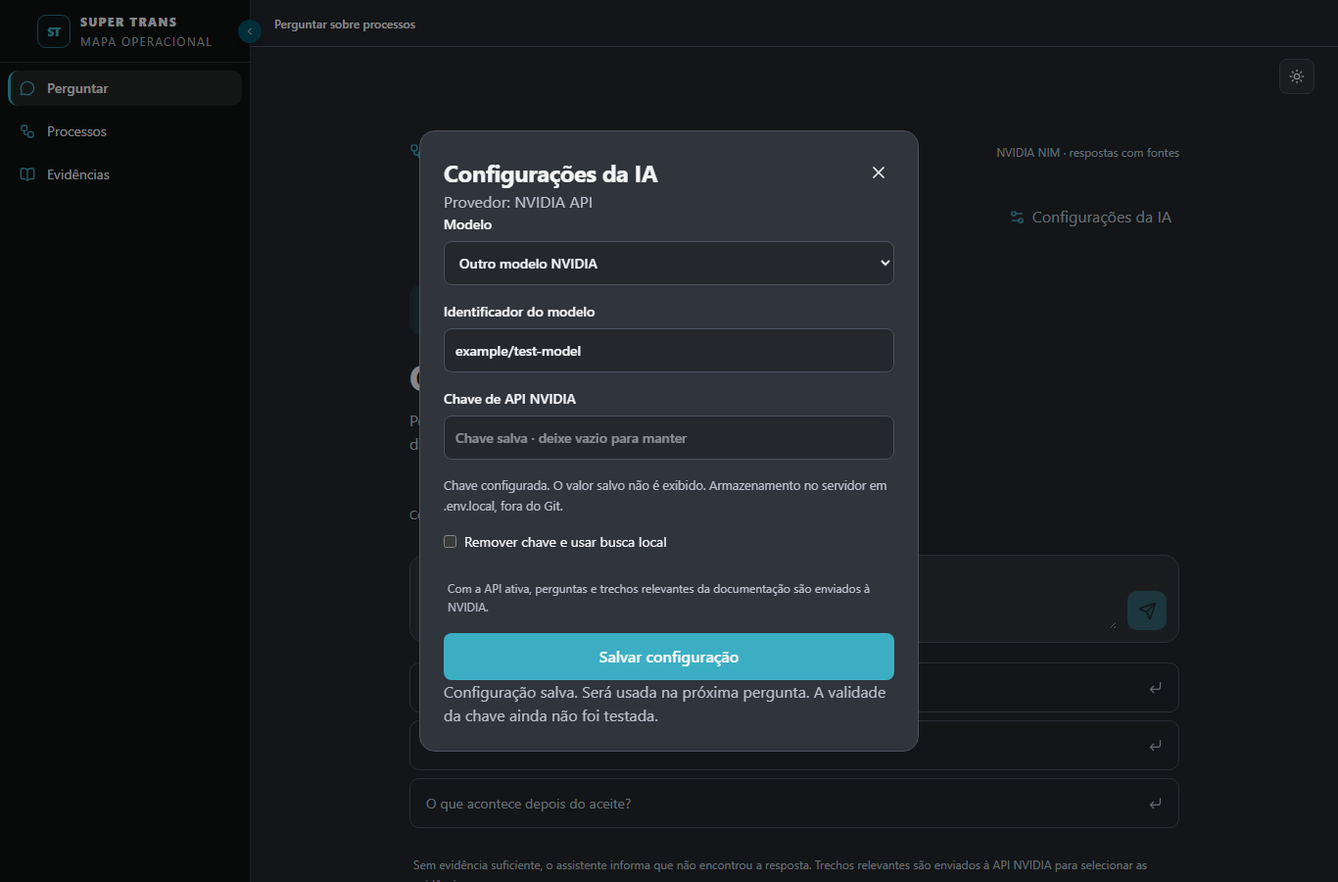
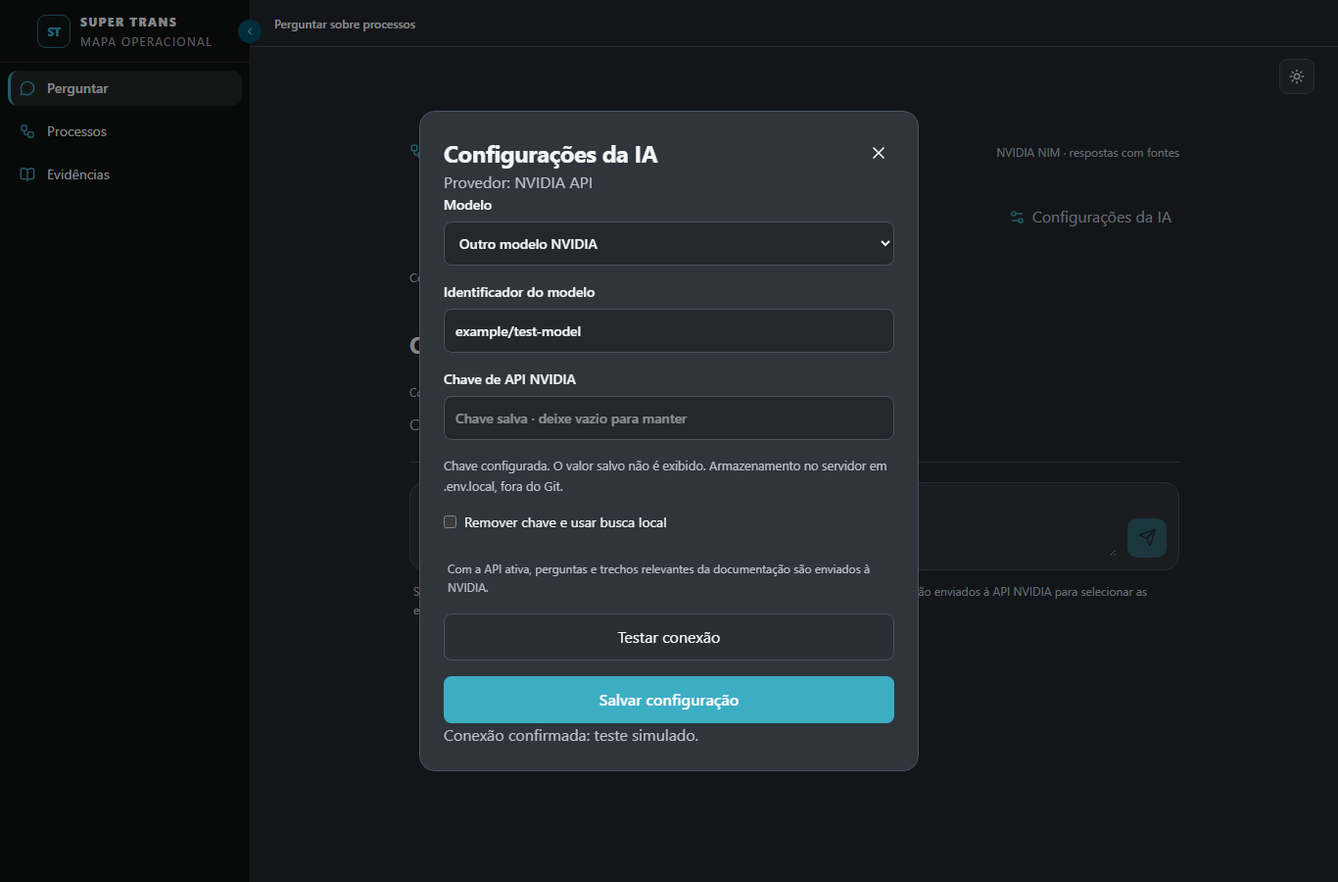
fix: preservar estado NVIDIA e validar conexão pela interface

Changed region(s): [[0.3075, 0.1244, 0.7072, 0.9333], [0.3075, 0.9644, 0.8609, 0.9956], [0.7072, 0.5911, 0.8917, 0.7156]]

diff --git a/frontend/src/components/AssistantSettings.tsx b/frontend/src/components/AssistantSettings.tsx
@@ -38,17 +38,46 @@ export function AssistantSettings({ onSaved }: { onSaved: (settings: Settings) =
     }
   }
 
+  async function probe(modelId: string, apiKey: string) {
+    const response = await fetch('/api/chat/settings/test', { method: 'POST', headers: { 'Content-Type': 'application/json' },
+      body: JSON.stringify({ model: modelId, apiKey }), signal: AbortSignal.timeout(35000) })
+    const data = await response.json()
+    if (!response.ok) throw new Error(data.error || 'Não foi possível testar a conexão.')
+    return data as { ok: boolean; message: string }
+  }
+
+  async function testConnection() {
+    setBusy(true); setError(''); setMessage('Testando conexão com a NVIDIA, sem enviar documentos…')
+    try {
+      const result = await probe(model.trim(), key.trim())
+      setMessage(result.ok ? result.message : '')
+      if (!result.ok) setError(result.message)
+    } catch (reason) { setMessage(''); setError(reason instanceof Error && reason.name === 'Error' ? reason.message : 'O teste de conexão não foi concluído. Confira se o serviço está iniciado e tente novamente.') }
+    finally { setBusy(false) }
+  }
+
   async function save(event: FormEvent) {
     event.preventDefault()
     setBusy(true); setError(''); setMessage('')
+    let saved = false
     try {
       const response = await fetch('/api/chat/settings', { method: 'POST', headers: { 'Content-Type': 'application/json' },
         body: JSON.stringify({ model: model.trim(), apiKey: key.trim(), removeKey: remove }) })
       const data = await response.json()
       if (!response.ok) throw new Error(data.error || 'Não foi possível salvar.')
+      saved = true
       setSettings(data); setKey(''); setRemove(false); onSaved(data)
-      setMessage(data.keyConfigured ? 'Configuração salva. Será usada na próxima pergunta. A validade da chave ainda não foi testada.' : 'Configuração salva. Assistente em busca local.')
-    } catch (reason) { setError(reason instanceof Error ? reason.message : 'Não foi possível salvar.') }
+      if (data.keyConfigured) {
+        setMessage('Configuração salva. Testando conexão com a NVIDIA, sem enviar documentos…')
+        const result = await probe(data.model, '')
+        setMessage(result.ok ? 'Configuração salva. ' + result.message : '')
+        if (!result.ok) setError('Configuração salva, mas a conexão falhou. ' + result.message)
+      } else setMessage('Configuração salva. Assistente em busca local.')
+    } catch (reason) {
+      setMessage('')
+      const detail = reason instanceof Error && reason.name === 'Error' ? reason.message : 'O serviço ou o teste de conexão não respondeu. Tente novamente.'
+      setError((saved ? 'Configuração salva. ' : '') + detail)
+    }
     finally { setBusy(false) }
   }
 
@@ -70,7 +99,8 @@ export function AssistantSettings({ onSaved }: { onSaved: (settings: Settings) =
           <small>{settings.keyConfigured ? 'Chave configurada. O valor salvo não é exibido.' : 'Sem chave, o assistente usa a busca local.'} Armazenamento no servidor em .env.local, fora do Git.</small>
           {settings.keyConfigured && <label className="assistant-settings-remove"><input type="checkbox" checked={remove} onChange={(event) => { setRemove(event.target.checked); setKey('') }} />Remover chave e usar busca local</label>}
           <p className="assistant-footnote">Com a API ativa, perguntas e trechos relevantes da documentação são enviados à NVIDIA.</p>
-          <button type="submit" className="assistant-settings-save">{busy ? 'Salvando…' : 'Salvar configuração'}</button>
+          <button type="button" className="assistant-settings-test" disabled={remove || (!key.trim() && !settings.keyConfigured)} onClick={() => void testConnection()}>Testar conexão</button>
+          <button type="submit" className="assistant-settings-save">{busy ? 'Aguarde…' : 'Salvar configuração'}</button>
         </fieldset>
       </form>}
       {message && <p role="status">{message}</p>}

diff --git a/frontend/src/components/AssistantPage.tsx b/frontend/src/components/AssistantPage.tsx
@@ -43,7 +43,6 @@ export function AssistantPage({ catalog }: { catalog: FrontendCatalog }) {
       if (!response.ok) throw new Error('Não foi possível consultar. Confira se o serviço local está iniciado e tente novamente.')
       const reply: Reply = await response.json()
       if (current !== revision.current) return
-      setMode(reply.mode)
       setTurns((previous) => previous.map((turn, index) => index === previous.length - 1 ? { ...turn, reply } : turn))
     } catch (reason) {
       if (current !== revision.current) return
@@ -78,6 +77,7 @@ export function AssistantPage({ catalog }: { catalog: FrontendCatalog }) {
         {turns.map((turn, index) => <article className="assistant-turn" key={index} ref={index === turns.length - 1 ? lastReply : undefined}>
           <h2>{turn.question}</h2>
           {turn.reply && <div className="assistant-answer">
+            <p className="assistant-reply-mode">{turn.reply.mode === 'nvidia-api' ? 'Resposta com NVIDIA' : turn.reply.mode === 'local-nim' ? 'Resposta com NIM local' : 'Consulta direta à documentação'}</p>
             <p className="assistant-response-text">{turn.reply.answer}</p>
             {turn.reply.warning && <p className="assistant-notice">{turn.reply.warning}</p>}
             {turn.reply.responsibilities?.map((role) => <section className="assistant-role" key={role.executor}>

diff --git a/frontend/src/styles.css b/frontend/src/styles.css
@@ -1543,3 +1543,6 @@ a:focus-visible { outline: 3px solid var(--ring); outline-offset: 2px; }
 .assistant-role summary, .assistant-sources > summary { cursor:pointer; color:var(--accent); font-size:13px; }
 .assistant-sources { margin-top:22px; padding-top:16px; border-top:1px solid var(--border); }
 .assistant-sources > summary svg { vertical-align:middle; margin-right:6px; }
+
+.assistant-settings-test { border:1px solid var(--border); background:var(--secondary); color:var(--foreground); border-radius:8px; padding:11px; cursor:pointer; }
+.assistant-reply-mode { font-size:12px; color:var(--muted-foreground); margin-bottom:12px; }

diff --git a/scripts/chat_server.py b/scripts/chat_server.py
@@ -9,6 +9,7 @@ from pathlib import Path
 import re
 import tempfile
 import threading
+import time
 import urllib.error
 import urllib.parse
 import urllib.request
@@ -50,6 +51,68 @@ class NoRedirect(urllib.request.HTTPRedirectHandler):
         raise ValueError('Redirecionamento do modelo local não permitido')
 
 
+def provider_error(error):
+    if isinstance(error, urllib.error.HTTPError):
+        status = error.code
+        messages = {401: 'A NVIDIA recusou a chave de API (401). Confira ou substitua a chave.',
+                    403: 'A NVIDIA negou acesso ao modelo (403). Confira as permissões da conta.',
+                    404: 'Modelo não encontrado na NVIDIA (404). Confira o identificador escolhido.',
+                    429: 'Limite da NVIDIA atingido (429). Aguarde ou confira a cota da conta.',
+                    400: 'A NVIDIA recusou os parâmetros do modelo (400). Confira o modelo selecionado.',
+                    422: 'A NVIDIA recusou os parâmetros do modelo (422). Confira o modelo selecionado.'}
+        return messages.get(status, f'A NVIDIA retornou erro HTTP {status}. Tente novamente.')
+    if isinstance(error, TimeoutError) or isinstance(getattr(error, 'reason', None), TimeoutError):
+        return 'A NVIDIA não respondeu dentro do tempo limite. A chave não pôde ser validada; tente novamente ou escolha outro modelo.'
+    if isinstance(error, OSError):
+        return 'Não foi possível conectar à NVIDIA. Confira a conexão de rede e tente novamente.'
+    return 'A IA respondeu em formato inválido ou sem evidências verificáveis.'
+
+
+def provider_completion(request, timeout=45):
+    opener = urllib.request.build_opener(urllib.request.ProxyHandler({}), NoRedirect())
+    with opener.open(request, timeout=timeout) as response:
+        if not str(response.headers.get('Content-Type', '')).startswith('text/event-stream'):
+            return json.loads(response.read(1_000_000))
+        content = []
+        size = 0
+        started = time.monotonic()
+        for raw in response:
+            size += len(raw)
+            if size > 1_000_000:
+                raise ValueError('Provider response too large')
+            if time.monotonic() - started > 90:
+                raise TimeoutError()
+            if not raw.startswith(b'data:'):
+                continue
+            data = raw[5:].strip()
+            if data == b'[DONE]':
+                break
+            chunk = json.loads(data)
+            for choice in chunk.get('choices', []):
+                text = choice.get('delta', {}).get('content')
+                if isinstance(text, str):
+                    content.append(text)
+        return {'choices': [{'message': {'content': ''.join(content)}}]}
+
+
+def probe_provider(endpoint, model, api_key):
+    """Check inference with synthetic text only; never include the operational corpus."""
+    body = dict(model=model, messages=[dict(role='user', content='Responda apenas OK.')],
+                temperature=0, max_tokens=16, stream=True)
+    if model == NVIDIA_MODEL:
+        body['chat_template_kwargs'] = {'enable_thinking': False}
+    headers = {'Content-Type': 'application/json', 'Authorization': 'Bearer ' + api_key}
+    request = urllib.request.Request(endpoint, data=json.dumps(body).encode(), headers=headers)
+    try:
+        payload = provider_completion(request, timeout=30)
+        content = payload['choices'][0]['message']['content']
+        if not isinstance(content, str) or not content.strip():
+            raise ValueError('empty response')
+        return dict(ok=True, message='Conexão confirmada: a NVIDIA respondeu usando este modelo e esta chave.')
+    except (OSError, ValueError, KeyError, IndexError, TypeError) as error:
+        return dict(ok=False, message=provider_error(error))
+
+
 def select_quotes(hits: list[dict], generated: str) -> list[dict]:
     """Accept only exact, non-empty quotations from retrieved Markdown."""
     payload = json.loads(generated)
@@ -78,7 +141,7 @@ def nim_quotes(question, hits, endpoint, model, api_key=''):
               'Nunca invente fatos ou citações. Se não houver apoio, retorne {"evidencias":[]}. Selecione poucos trechos curtos e completos.')
     body = dict(model=model, messages=[dict(role='system', content=system),
                 dict(role='user', content=f'Pergunta: {question}\nDOCUMENTOS:\n{context}')], temperature=0, max_tokens=1400)
-    body['stream'] = False
+    body['stream'] = endpoint == NVIDIA_ENDPOINT
     if model == NVIDIA_MODEL:
         body['chat_template_kwargs'] = {'enable_thinking': False}
     headers = {'Content-Type': 'application/json'}
@@ -86,9 +149,7 @@ def nim_quotes(question, hits, endpoint, model, api_key=''):
         headers['Authorization'] = 'Bearer ' + api_key
     request = urllib.request.Request(endpoint, data=json.dumps(body).encode(), headers=headers)
     # No environment proxy and no redirects; the provider destination is explicit.
-    opener = urllib.request.build_opener(urllib.request.ProxyHandler({}), NoRedirect())
-    with opener.open(request, timeout=45) as response:
-        result = json.loads(response.read(1_000_000))
+    result = provider_completion(request)
     generated = result['choices'][0]['message']['content']
     selected = select_quotes(hits, generated)
     payload = json.loads(generated)
@@ -156,8 +217,8 @@ class Assistant:
                 mode = 'nvidia-api' if external else 'local-nim'
                 if not selected:
                     return dict(mode=mode, answer='Não encontrei evidência suficiente para responder com segurança.', sources=[])
-            except (OSError, ValueError, KeyError, IndexError, TypeError):
-                warning = 'A IA não respondeu com evidências válidas. Mostrando resultados da busca local.'
+            except (OSError, ValueError, KeyError, IndexError, TypeError) as error:
+                warning = provider_error(error) + ' Mostrando resultados da busca local.'
         if not selected:
             selected = [dict(h, quote=readable(h, question)) for h in hits[:3]]
         public = [dict(id=h['id'], file=h['file'], line=h['line'], title=re.sub(r'\s*\[.*?\]\s*$', '', h['title']),
@@ -218,6 +279,17 @@ class SettingsStore:
                         mode='nvidia-api' if self.assistant.external else 'local-nim' if self.assistant.endpoint else 'local-search',
                         externalContext=self.assistant.external)
 
+    def test_connection(self, data):
+        with self.assistant.config_lock:
+            config = configuration(self.root)
+            model = data.get('model') or self.assistant.model or config['NVIDIA_MODEL'] or NVIDIA_MODEL
+            key = data.get('apiKey') or self.assistant.api_key or config['NVIDIA_API_KEY']
+        if not isinstance(model, str) or not re.fullmatch(r'[A-Za-z0-9][A-Za-z0-9._/-]{1,199}', model):
+            raise ValueError('Informe um identificador de modelo válido.')
+        if not isinstance(key, str) or not key or len(key) > 512 or any(ord(c) < 33 or ord(c) > 126 for c in key):
+            raise ValueError('Informe ou salve uma chave de API válida antes de testar.')
+        return probe_provider(NVIDIA_ENDPOINT, model, key)
+
     def save(self, data):
         with self.assistant.config_lock:
             if self.public()['locked']:
@@ -273,7 +345,7 @@ def make_handler(assistant, directory, settings=None):
             self.wfile.write(body)
 
         def do_POST(self):
-            if self.path not in ('/api/chat', '/api/chat/settings'):
+            if self.path not in ('/api/chat', '/api/chat/settings', '/api/chat/settings/test'):
                 return self.json_response({'error': 'Rota inexistente'}, 404)
             # Only the local same-origin app may submit questions.
             origin = self.headers.get('Origin')
@@ -288,11 +360,13 @@ def make_handler(assistant, directory, settings=None):
                 if self.headers.get('Content-Type', '').split(';')[0] != 'application/json':
                     raise ValueError('Use JSON')
                 data = json.loads(self.rfile.read(length))
-                if self.path == '/api/chat/settings':
+                if self.path in ('/api/chat/settings', '/api/chat/settings/test'):
                     try:
-                        return self.json_response(settings.save(data))
+                        return self.json_response(settings.test_connection(data) if self.path.endswith('/test') else settings.save(data))
                     except ValueError as error:
                         return self.json_response({'error': str(error)}, 400)
+                    except OSError:
+                        return self.json_response({'error': 'Não foi possível gravar .env.local. Confira a permissão de escrita na pasta do projeto.'}, 500)
                 return self.json_response(assistant.answer(data.get('question'), data.get('processId')))
             except (ValueError, TypeError, AttributeError):
                 return self.json_response({'error': 'Pergunta ou processo inválido'}, 400)

diff --git a/tests/test_chat_server.py b/tests/test_chat_server.py
@@ -2,12 +2,38 @@ import json
 from pathlib import Path
 import unittest
 from unittest.mock import patch
-from scripts.chat_server import Assistant, local_endpoint, select_quotes, nim_quotes, NVIDIA_ENDPOINT, NVIDIA_MODEL
+from scripts.chat_server import Assistant, local_endpoint, select_quotes, nim_quotes, provider_completion, provider_error, NVIDIA_ENDPOINT, NVIDIA_MODEL
 
 ROOT = Path(__file__).resolve().parents[1]
 
 
 class ChatTests(unittest.TestCase):
+    def test_streaming_ignores_reasoning_and_handles_empty_choices(self):
+        from unittest.mock import MagicMock
+        import urllib.request
+        response = MagicMock()
+        response.headers.get.return_value = 'text/event-stream; charset=utf-8'
+        response.__iter__.return_value = iter([
+            b'data: {"choices":[]}\n',
+            b'data: {"choices":[{"delta":{"reasoning_content":"private reasoning"}}]}\n',
+            b'data: {"choices":[{"delta":{"content":"O"}}]}\n',
+            b'data: {"choices":[{"delta":{"content":"K"}}]}\n', b'data: [DONE]\n'])
+        opener = MagicMock()
+        opener.open.return_value.__enter__.return_value = response
+        with patch('scripts.chat_server.urllib.request.build_opener', return_value=opener):
+            result = provider_completion(urllib.request.Request(NVIDIA_ENDPOINT))
+        self.assertEqual(result['choices'][0]['message']['content'], 'OK')
+
+    def test_provider_errors_are_actionable_and_do_not_echo_response_body(self):
+        import urllib.error
+        for code in [401, 403, 404, 429]:
+            error = urllib.error.HTTPError(NVIDIA_ENDPOINT, code, 'secret-placeholder', None, None)
+            message = provider_error(error)
+            error.close()
+            self.assertIn(str(code), message)
+            self.assertNotIn('secret-placeholder', message)
+        self.assertIn('tempo limite', provider_error(TimeoutError()))
+
     def test_synthesis_is_displayed_only_with_valid_evidence_and_citations(self):
         from unittest.mock import MagicMock
         hits = [{'id': 'doc:1', 'text': 'A Central de Operações realiza o agendamento.'}]
@@ -33,7 +59,7 @@ class ChatTests(unittest.TestCase):
         self.assertEqual(request.get_header('Authorization'), 'Bearer placeholder-key')
         body = json.loads(request.data)
         self.assertEqual(body['model'], NVIDIA_MODEL)
-        self.assertFalse(body['stream'])
+        self.assertTrue(body['stream'])
         self.assertEqual(len(body['messages']), 2)
         self.assertEqual(answer[0]['quote'], hits[0]['text'])
 

diff --git a/tests/test_chat_settings.py b/tests/test_chat_settings.py
@@ -14,6 +14,23 @@ ROOT = Path(__file__).resolve().parents[1]
 
 
 class SettingsTests(unittest.TestCase):
+    def test_connection_test_uses_saved_key_without_exposing_it(self):
+        self.store.save(dict(model=NVIDIA_MODEL, apiKey='connection-placeholder'))
+        with patch('scripts.chat_server.probe_provider', return_value={'ok': True, 'message': 'Conexão confirmada.'}) as probe:
+            reply = self.store.test_connection({})
+        self.assertTrue(reply['ok'])
+        self.assertEqual(probe.call_args.args[-1], 'connection-placeholder')
+        self.assertNotIn('connection-placeholder', json.dumps(reply))
+
+    def test_connection_test_requires_key_and_never_persists_draft(self):
+        with self.assertRaises(ValueError):
+            self.store.test_connection({})
+        with patch('scripts.chat_server.probe_provider', return_value={'ok': False, 'message': 'Chave recusada (401).'}) as probe:
+            reply = self.store.test_connection(dict(model=NVIDIA_MODEL, apiKey='unsaved-placeholder'))
+        self.assertFalse(reply['ok'])
+        self.assertEqual(probe.call_args.args[-1], 'unsaved-placeholder')
+        self.assertFalse((self.root / '.env.local').exists())
+
     def setUp(self):
         self.env = patch.dict(os.environ, {}, clear=False)
         self.env.start()

diff --git a/DECISIONS.md b/DECISIONS.md
@@ -610,3 +610,13 @@ UI responde diretamente, apresenta três atividades por executor com expansão d
 frontend/scripts/dev.mjs orquestra Python e Vite sem dependências novas. Aguarda /api/chat/status identificado, reaproveita backend existente compatível sem encerrá-lo, falha explicitamente em serviços incompatíveis e portas Vite ocupadas. Ctrl+C fecha Vite e apenas Python iniciado pelo comando. PYTHON admite executável alternativo; pré-requisito Python permanece. QA real inicia ambos, testa status/settings/chat pelo proxy e emite SIGINT, confirmando portas livres ao sair.
 
 70 Python, 29 Vitest, build e QA assistant/assistant-settings/dev-lifecycle aprovados; dez testes específicos repetidos após ajuste de apresentação. Nenhuma chamada NVIDIA real, segredo ou alteração em fontes/dados canônicos/Markdown. Aviso de bundle >500 kB permanece. Próximo: usuário reiniciar npm run dev, revisar resposta e configurar/avaliar NVIDIA com material liberado.
+
+## DEC-052 — configuração não é modo da resposta; conexão verificável (2026-10-22)
+
+Usuário confirmou que salvar funciona, mas o chat continua mostrando busca local. Causa reproduzida: AssistantPage aplicava setMode(reply.mode), substituindo o provedor configurado pelo caminho de execução da última resposta. Consulta agregada é local por desenho. Indicador passa a refletir configuração; respostas mostram modo individual. A chave já estava salva. Não foi exposta, alterada ou removida na validação real.
+
+Adicionado POST /api/chat/settings/test com mesma restrição de Origin/JSON, chave de rascunho ou salva e mensagem sintética apenas. Salvar com chave também testa; botão testa sem persistir. Sucesso de gravação é distinto de conexão, e falha do teste não desfaz configuração. Diagnósticos por HTTP401/403/404/429/400/422, rede, timeout e evidência inválida, sem corpo de erro externo ou segredo. Não confundir presença em catálogo com autenticação/inferência confirmada.
+
+NVIDIA passa a stream=true, acumulando SSE no servidor (resposta ao frontend permanece JSON). Ignora reasoning_content/choices vazios; limita tamanho e duração. NIM local mantém contrato anterior. Teste sintético não streaming inicial expirou em45s; streaming respondeu em10s e teste integrado confirmou em cerca de3s. Painel real confirmou novamente após uma tentativa de timeout, evidenciando variação de latência externa; não se promete disponibilidade/latência estável nem se atribui timeout a chave inválida.
+
+74 Python/29 Vitest/build aprovados. Regressão UI salva+resposta local mantém NVIDIA, três temas/larguras com transporte simulado. Painel real só executou status/configurações/teste sintético, com /api/chat bloqueado e comparação byte a byte de .env.local preservado. Primeiro teste de navegador com pergunta foi rejeitado pela revisão automática por possível envio de documentos; substituído por painel/conexão sem perguntas. Nenhum documento operacional enviado. Inferência sintética real agora comprovada; qualidade sobre acervo continua não avaliada. Próximo: reiniciar npm run dev e revisar status/configuração, mantendo pendências operacionais anteriores.

diff --git a/.codex/HANDOFF.md b/.codex/HANDOFF.md
@@ -455,3 +455,11 @@ DEC-051. Corrigido print com teste reproduzindo falha: pergunta geral de executo
 npm run dev em frontend inicia frontend/scripts/dev.mjs: Python em8765, health/service marker, Vite5173 strictPort e encerramento dos filhos próprios. Reutiliza backend compatível existente; não mata processo alheio. Python 3.12+ no PATH ou variável PYTHON. Serviço antigo sem marker exige encerramento explícito; backend manual iniciado por esta conversa foi encerrado. Dev conjunto foi validado e encerrado para liberar portas; usuário inicia no próprio terminal com npm run dev.
 
 70 Python/29 Vitest/build/QA assistant/assistant-settings/dev-lifecycle OK; dez testes específicos repetidos após último ajuste de texto/ordenação. QA lifecycle confirma proxy status/settings/chat e liberação de portas pelo handler SIGINT. Sem chave real/inferência NVIDIA. Fontes/raw/normalized/review/frontend/public/data/knowledge intactos. Próximo exato: usuário reiniciar npm run dev no próprio terminal, revisar pergunta do print e configurar chave pela interface para avaliar IA com conteúdo liberado. Manter pendências operacionais anteriores.
+
+## CHECKPOINT VIGENTE — configuração NVIDIA/indicador (2026-10-22)
+
+DEC-052. Chave real existia salva; usuário confirmou sintoma de continuar em busca local. Corrigido setMode(reply.mode) em AssistantPage: estado do provedor não muda com resposta local; cada resposta tem rótulo próprio. AssistantSettings testa após salvar e oferece Testar conexão. POST /api/chat/settings/test usa chave salva/rascunho, somente texto sintético, sem persistência. Mensagens por status/rede/timeout; erro de gravação tem mensagem própria. SSE na NVIDIA, ignorando reasoning e choices vazios.
+
+74 Python/29 Vitest/build OK. QA assistant-settings cobre salvar/resposta local/status com mocks em desktop/mobile/claro/escuro. QA assistant-provider-state testa painel REAL na porta5173, /api/chat bloqueado e arquivo .env.local byte idêntico. NVIDIA respondeu ao modelo/chave existentes em texto sintético; houve também timeout, então não prometer latência estável. Nenhum acervo enviado. Teste inicial com pergunta foi bloqueado por auto-review e substituído por painel sem perguntas. Arquivo de segredo não foi versionado nem seu valor exposto.
+
+Próximo exato: usuário reiniciar npm run dev para carregar backend novo e revisar configuração. Não solicitar chave no chat; ela já existe. Qualidade documental continua pendente, distinta do teste sintético confirmado. Serviços de QA devem ser encerrados para liberar5173/8765 antes do usuário iniciar. Fontes/raw/normalized/review/knowledge intactos.

diff --git a/README.md b/README.md
@@ -96,8 +96,8 @@ npm --prefix frontend run build
 python -m scripts.chat_server
 ```
 
-Abrir http://127.0.0.1:8765. Sem chave, funciona como busca local. Integração externa usa NVIDIA_API_KEY somente no servidor e modelo nvidia/nemotron-3.5-super-vl-120b-a12b. `.env.example` documenta configuração; `.env.local` não é versionado. Nenhuma chamada real NVIDIA foi feita nesta sessão. Confidencialidade e limites do trial precisam ser respeitados antes de enviar material interno. Ver [arquitetura, configuração e limites](docs/assistant.md).
+Abrir http://127.0.0.1:8765. Sem chave, funciona como busca local. Integração externa usa NVIDIA_API_KEY somente no servidor e modelo nvidia/nemotron-3.5-super-vl-120b-a12b. `.env.example` documenta configuração; `.env.local` não é versionado. Conexão NVIDIA validada com mensagem sintética; respostas sobre documentos ainda precisam de avaliação. Confidencialidade e limites do trial precisam ser respeitados antes de enviar material interno. Ver [arquitetura, configuração e limites](docs/assistant.md).
 
-No chat, **Configurações da IA** permite cadastrar/substituir/remover a chave e escolher o modelo NVIDIA. Salvar aplica na próxima pergunta sem reiniciar; chave fica em `.env.local` no servidor e nunca é devolvida pela API. A validade da chave não é testada ao salvar.
+No chat, **Configurações da IA** permite cadastrar/substituir/remover a chave e escolher o modelo NVIDIA. Salvar aplica na próxima pergunta sem reiniciar; chave fica em `.env.local` no servidor e nunca é devolvida pela API. Salvar também testa a conexão com mensagem sintética; o botão Testar conexão permite conferir novamente sem salvar.
 
 Desenvolvimento completo: na pasta `frontend/`, execute **`npm run dev`**. Inicia backend Python em 8765 e Vite em 5173, aguarda disponibilidade e encerra os serviços iniciados com Ctrl+C. Python 3.12+ no PATH (ou variável `PYTHON` com caminho do executável). Não exige segundo terminal. A inicialização manual acima permanece alternativa para servir o build.

diff --git a/PROJECT_STATUS.md b/PROJECT_STATUS.md
@@ -345,3 +345,9 @@ Próximo exato: usuário abre Configurações da IA, cadastra chave e modelo; va
 Corrigido caso do print: pergunta ampla não usa mais três hits isolados. Percorre Markdown revisado do processo, agrupa executor/procedimento documentados e apresenta atividades com expansão/fontes recolhidas; Importação contém oito executores/121 atividades únicas informadas. Não converte lanes em executor. Consultas específicas recebem texto com procedimento/executor; API admite síntese referenciada com evidências literais validadas. Sem inferência NVIDIA real nesta unidade.
 
 npm run dev em frontend agora inicia Python e Vite, aguarda saúde, recusa portas incompatíveis e fecha serviços próprios ao encerrar. DEC-051. 70 Python/29 Vitest/build, QA assistant/assistant-settings e teste end-to-end dev-lifecycle aprovados; dez testes específicos repetidos após ajuste de ordem/texto. Fontes/dados/knowledge intactos. Próximo: usuário reiniciar npm run dev e revisar resposta; validar qualidade NVIDIA real após configurar chave com conteúdo liberado.
+
+## Marco 2026-10-22 — estado NVIDIA e diagnóstico de conexão
+
+Relato confirmado: chave estava salva, mas resposta local sobrescrevia o indicador do provedor. Removida essa sobrescrita; modo de cada resposta é apresentado separadamente. Configurações agora testa conexão sintética ao salvar e por botão explícito, sem documentos; falhas distinguem credencial/permissão/modelo/cota/rede/timeout. Transporte NVIDIA passou para SSE, ignorando reasoning e eventos vazios. DEC-052.
+
+Validação: 74 Python/29 Vitest/build; QA da regressão com transporte simulado e painel real via localhost:5173. Conexão real confirmada com chave/modelo existentes e texto sintético; houve timeout em outra tentativa, sem atribuí-lo à chave. .env.local permaneceu byte idêntico, não versionado nem exposto. Nenhum documento enviado à NVIDIA. Próximo: usuário reiniciar npm run dev e revisar status; qualidade de respostas operacionais segue pendente.

diff --git a/TASKS.md b/TASKS.md
@@ -330,3 +330,12 @@ O plano abaixo foi executado parcialmente nesta fase; a coluna Jira ficou penden
 - [x] npm run dev iniciar frontend/backend, aguardar saúde e limpar serviços próprios ao encerrar.
 - [x] Validar 70 Python/29 Vitest/build, QA chat/configurações e ciclo completo de desenvolvimento.
 - [ ] Revisão do usuário e avaliação de respostas NVIDIA reais; chave não foi cadastrada por este trabalho.
+
+## Correção da configuração NVIDIA — 2026-10-22
+
+- [x] Confirmar sintoma salva, mas chat continua em busca local e separar estado configurado de modo da resposta.
+- [x] Testar conexão com texto sintético, ao salvar e por botão, preservando segredo/configuração.
+- [x] Diferenciar erros de autenticação, acesso, modelo, cota, rede e tempo limite.
+- [x] Implementar SSE conforme exemplo fornecido e ignorar reasoning/eventos vazios.
+- [x] Validar 74 Python/29 Vitest/build, regressão visual simulada e painel real com mensagem sintética.
+- [ ] Revisão do usuário após reiniciar npm run dev; avaliar qualidade operacional sem confundir teste sintético com resposta documental.
